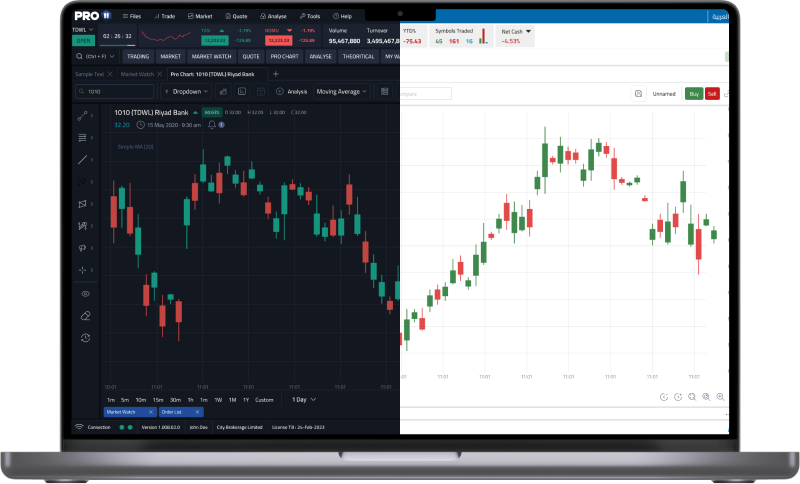
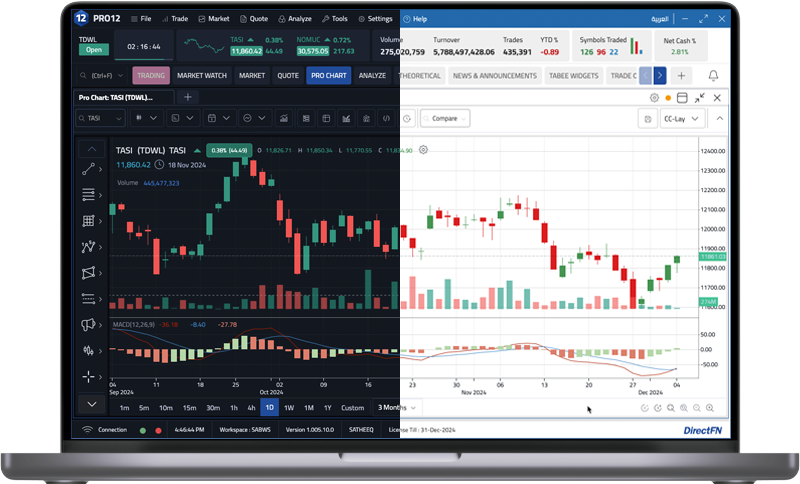
Pro12 download page changes

diff --git a/index.html b/index.html
@@ -6,14 +6,15 @@
     <meta name="viewport" content="width=device-width, initial-scale=1.0">
     <link rel="stylesheet" href="style.css">
     <link rel="stylesheet" href="https://fonts.googleapis.com/css2?family=Cairo:wght@400;600&display=swap">
-    <title>Pro 11 - Product Page</title>
+    <link rel="icon" type="image/png" href="./image/favicon.png">
+    <title>Pro 12 - Download</title>
 </head>
 <body>
     <div class="centered">
         <!-- Logos above the center -->
         <div class="brand-logo">
             <div class="logo">
-              <img src="./image/product-logo.png" alt="Product Logo" height="77" width="77">
+              <img src="./image/product-logo.png" alt="Product Logo" height="77" width="242">
             </div>
             <div class="logo">
               <img src="./image/co-brand.png" alt="CoBrand Logo" height="77">
@@ -25,13 +26,13 @@
         
         <!-- Logos below the center -->
         <div class="logo">
-            <a href="#">
+            <a href="https://dfni.directfn.sa/Pro12/downloads/retail/1005090064/DFNPRO12_SA_RETAIL_X_1.005.09.0_win_x64-Installer.zip">
                 <img src="./image/download for windows.png" alt="Windows button">
             </a>
           
         </div>
         <div class="logo">
-            <a href="#">
+            <a href="https://dfni.directfn.sa/Pro12/downloads/retail/1005090064/DFNPRO12_SA_RETAIL_X_1.005.09.0_mac_x64-Installer.zip">
                 <img src="./image/download for mac.png" alt="Mac button">
             </a>
           
@@ -39,7 +40,7 @@
 
         <div class="paragraph">
             <p>
-                Recommended Windows 10/11 x64bit with 8 Core CPU and 8GB RAM & Mac 10 or above.
+                Recommended Windows 10/11 x64bit with 8 Core CPU and 8GB RAM & MacOS 10 or above.
             </p>
         </div>
       </div>

diff --git a/style.css b/style.css
@@ -30,7 +30,7 @@ body{
 
   /* Styling the logos */
   .brand-logo {
-    max-height: 100px;
+    max-height: 116px;
   }
 
   .logo {
